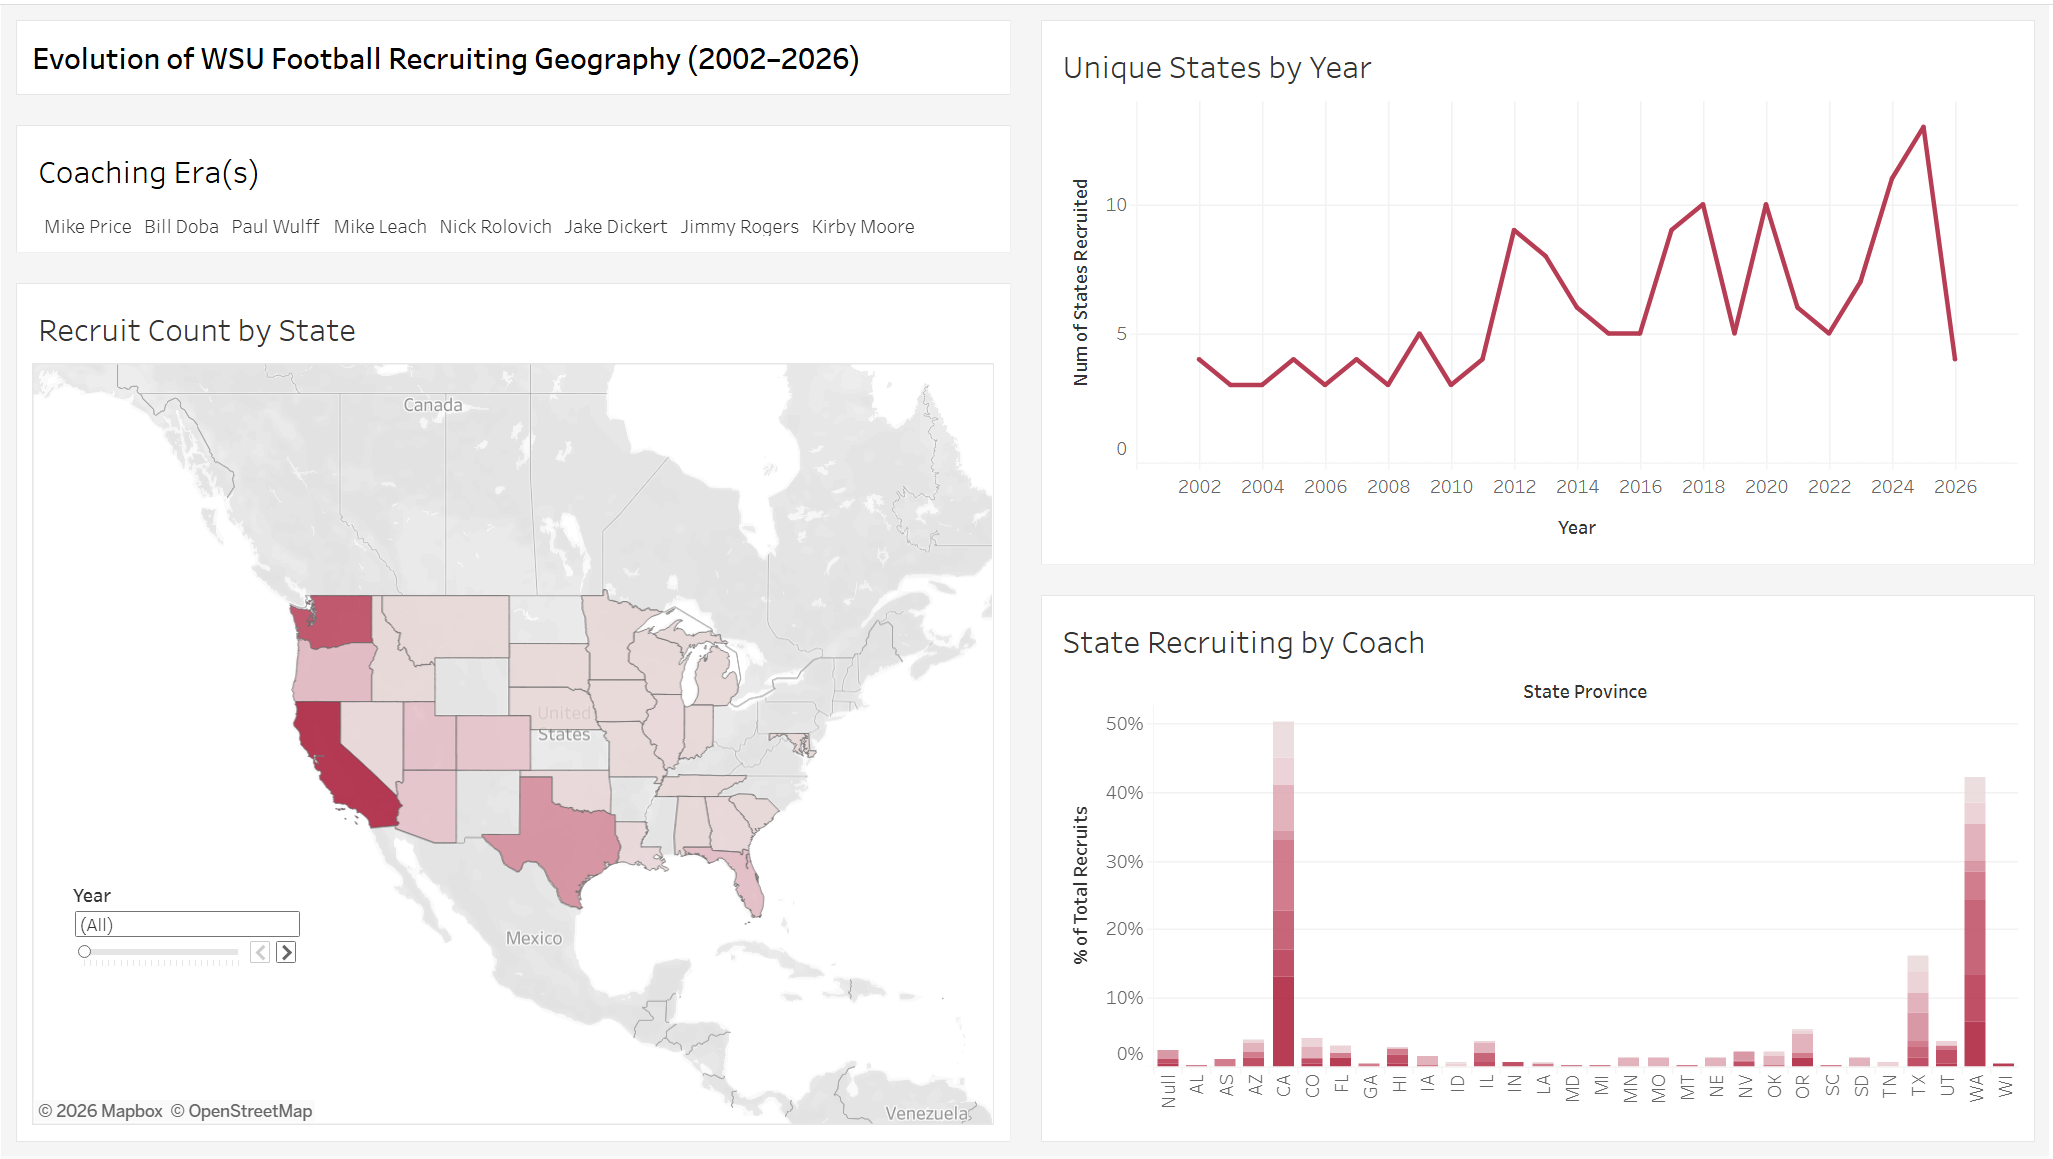
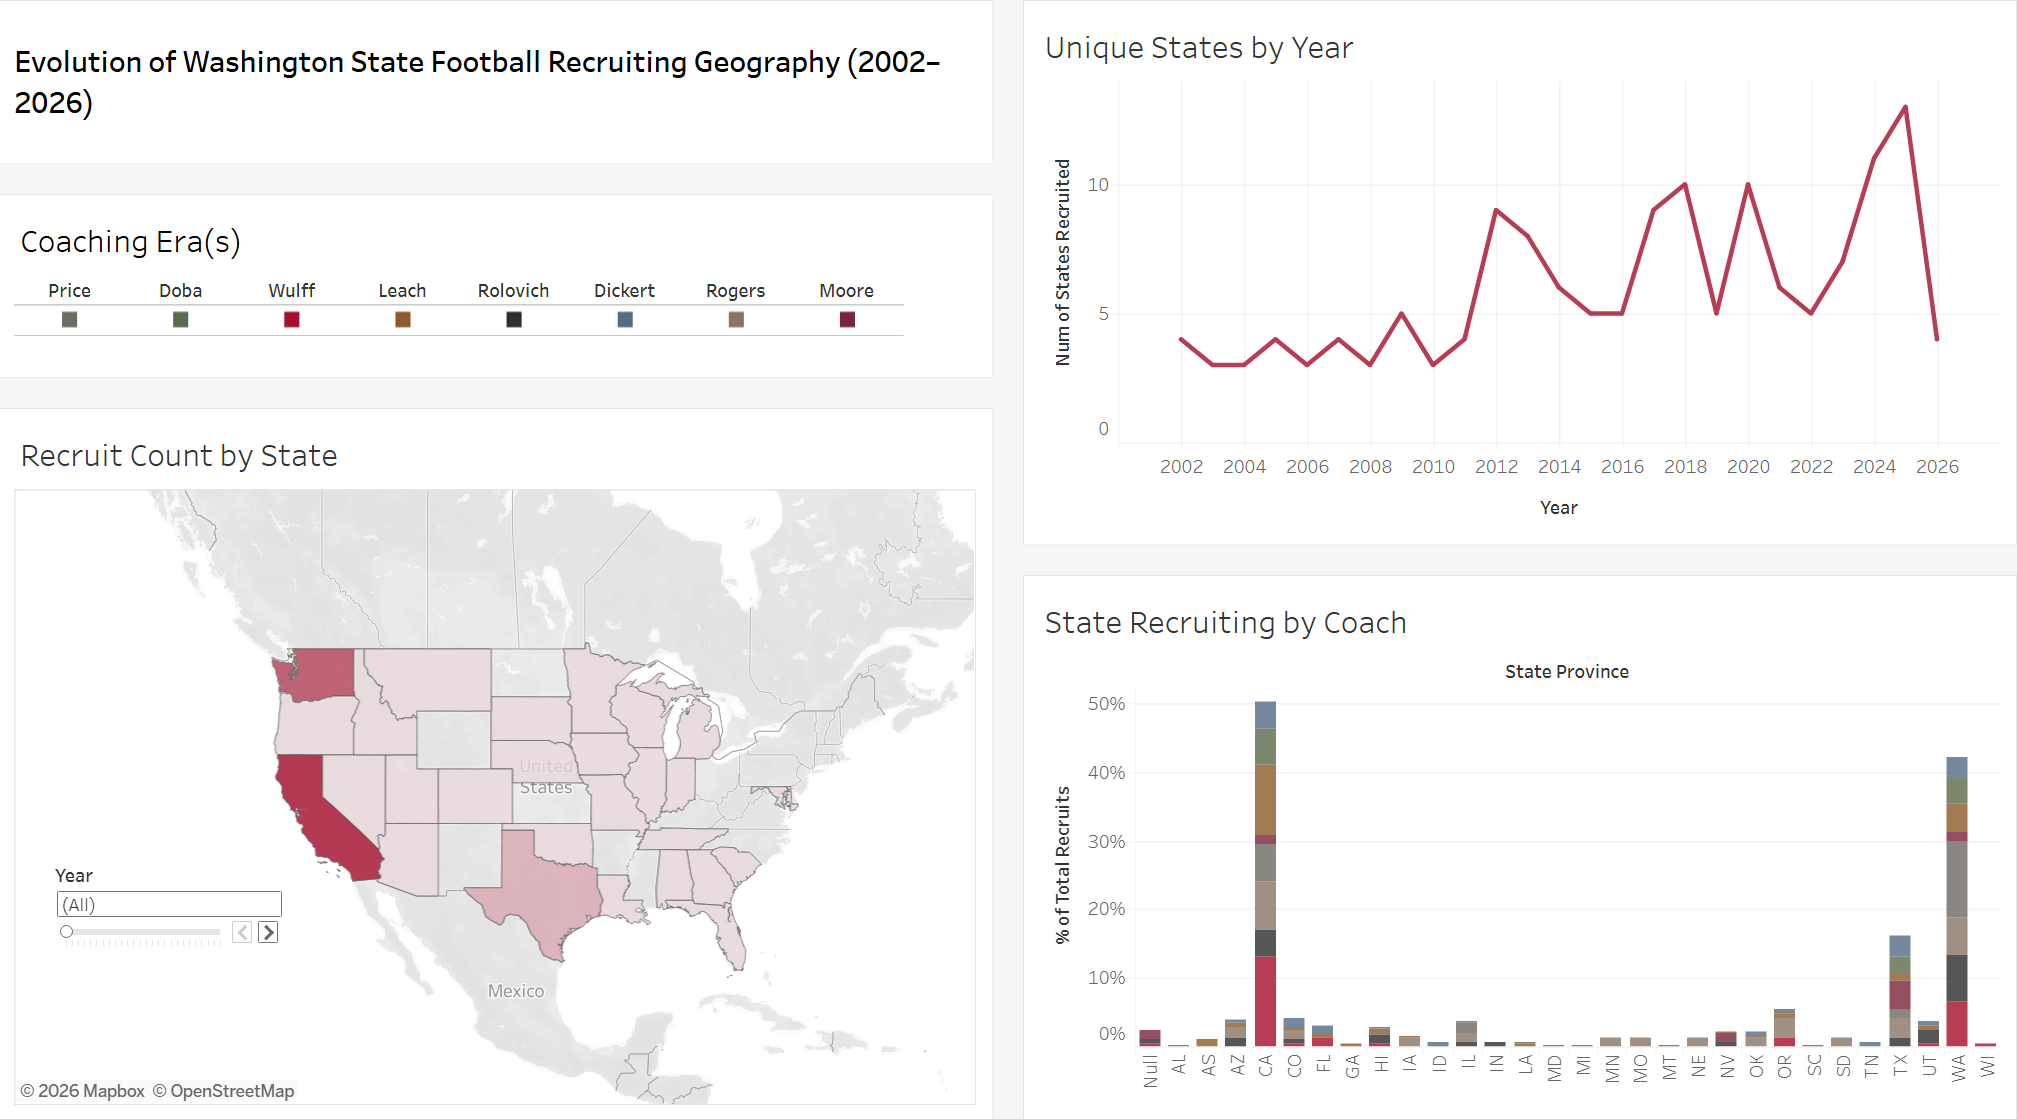
Updates

diff --git a/index.html b/index.html
@@ -1,1 +1,1 @@
-<!doctype html><html lang="en"><head><meta charset="utf-8"/><meta name="viewport" content="width=device-width,initial-scale=1"/><meta name="theme-color" content="#000000"/><meta name="description" content="Josh Abbott"/><link rel="icon" type="image/x-icon" href="/favicon.ico"><link rel="apple-touch-icon" sizes="180x180" href="/apple-touch-icon.png"><link rel="icon" type="image/png" sizes="32x32" href="/favicon-32x32.png"><link rel="icon" type="image/png" sizes="16x16" href="/favicon-16x16.png"><link rel="icon" type="image/png" sizes="192x192" href="/android-chrome-192x192.png"><link rel="icon" type="image/png" sizes="512x512" href="/android-chrome-512x512.png"><title>Josh Abbott</title><script defer="defer" src="/static/js/main.501ba725.js"></script><link href="/static/css/main.083ed20b.css" rel="stylesheet"></head><body><noscript>You need to enable JavaScript to run this app.</noscript><div id="root"></div></body></html>
+<!doctype html><html lang="en"><head><meta charset="utf-8"/><meta name="viewport" content="width=device-width,initial-scale=1"/><meta name="theme-color" content="#000000"/><meta name="description" content="Josh Abbott"/><link rel="icon" type="image/x-icon" href="/favicon.ico"><link rel="apple-touch-icon" sizes="180x180" href="/apple-touch-icon.png"><link rel="icon" type="image/png" sizes="32x32" href="/favicon-32x32.png"><link rel="icon" type="image/png" sizes="16x16" href="/favicon-16x16.png"><link rel="icon" type="image/png" sizes="192x192" href="/android-chrome-192x192.png"><link rel="icon" type="image/png" sizes="512x512" href="/android-chrome-512x512.png"><title>Josh Abbott</title><script defer="defer" src="/static/js/main.dbfdf31c.js"></script><link href="/static/css/main.083ed20b.css" rel="stylesheet"></head><body><noscript>You need to enable JavaScript to run this app.</noscript><div id="root"></div></body></html>